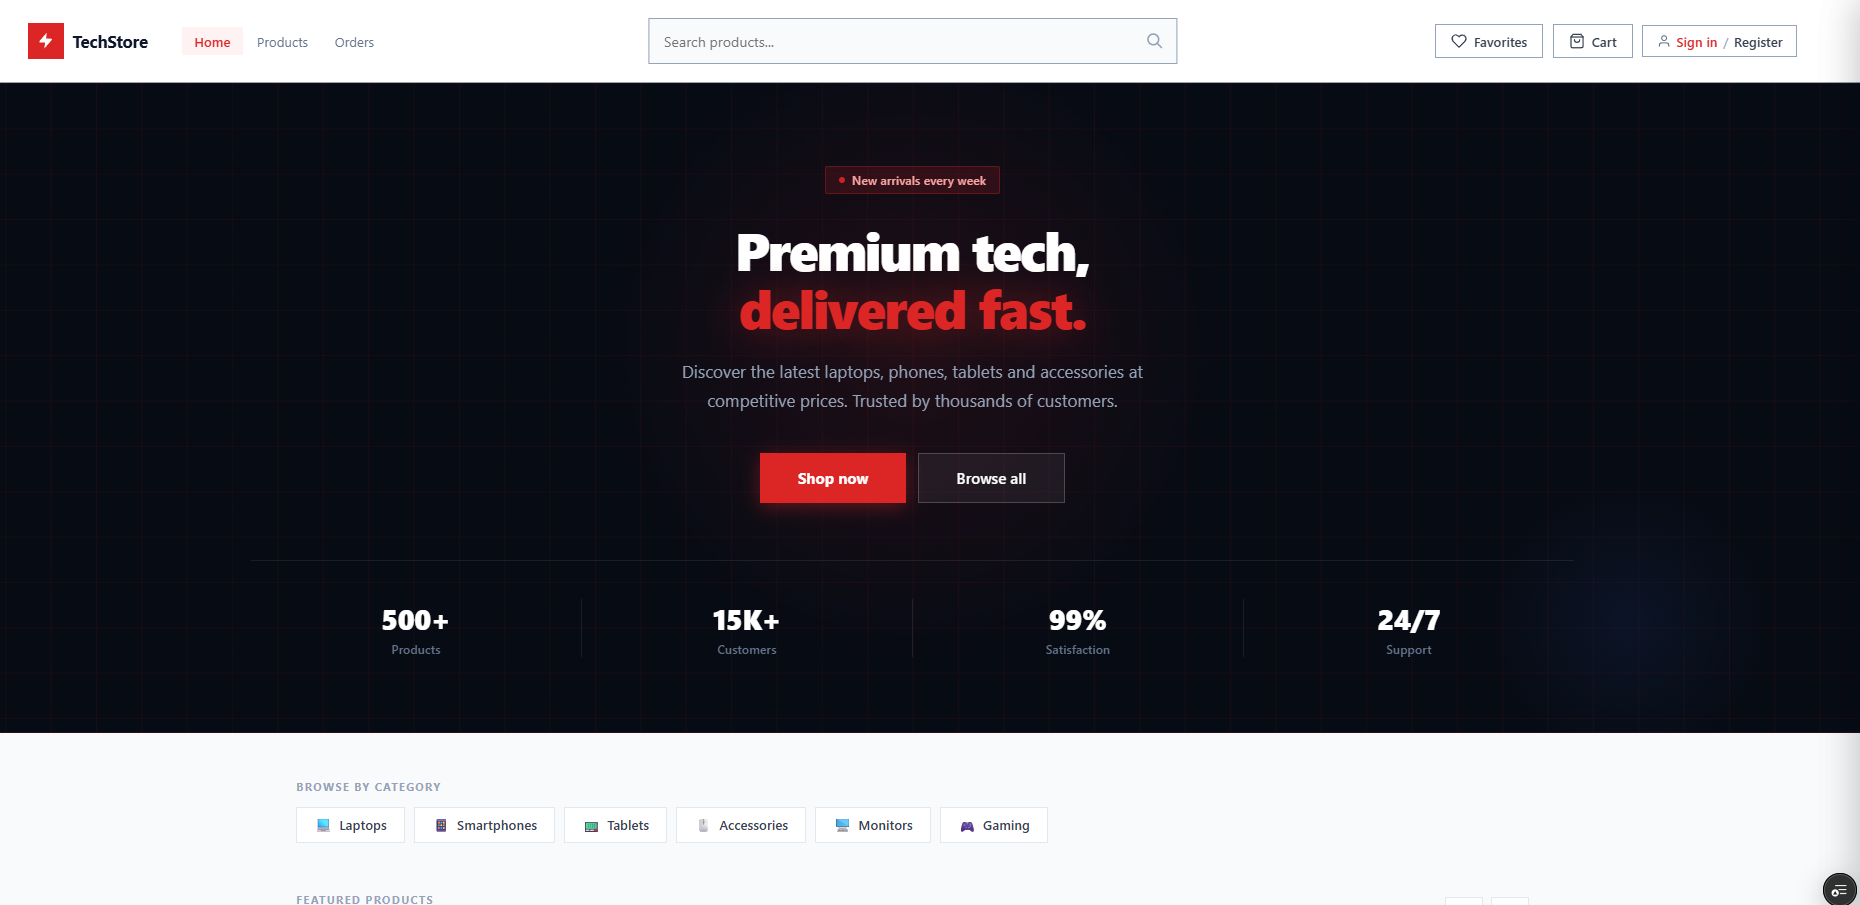
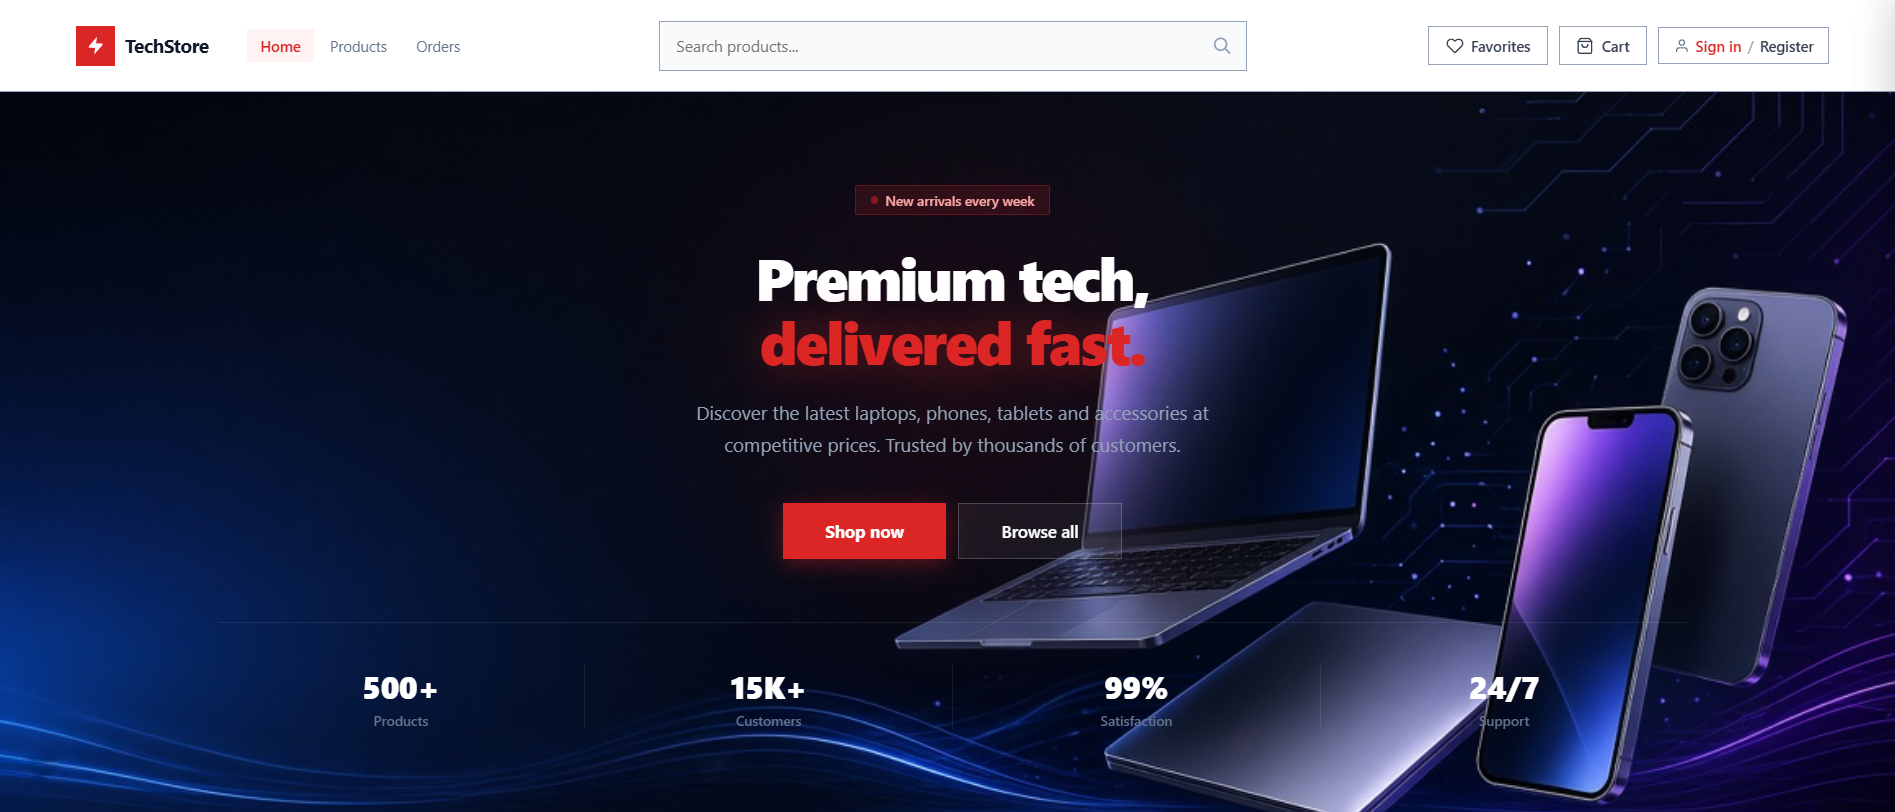
added new link

diff --git a/src/Sections/Projects.jsx b/src/Sections/Projects.jsx
@@ -41,7 +41,7 @@ function Projects() {
       image: techshop,
       name: "E-commerce tech",
       brief: "A fully working online tech-store",
-      link: "https://eshop-frontend-fg0jb5kwx-pantelisdevs-projects.vercel.app/",
+      link: "https://eshop-frontend-aq3kz81mz-pantelisdevs-projects.vercel.app/",
       technologies: ["tailwind", "React", "SQL", "Java"],
     },
     {
